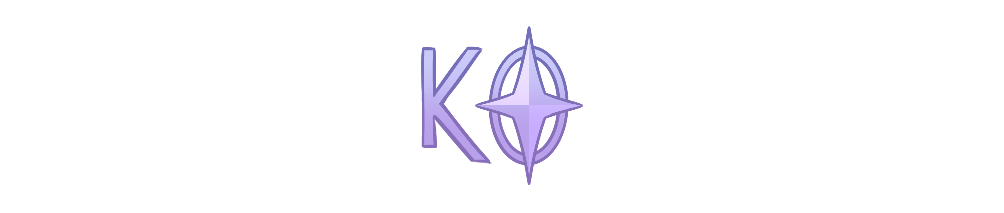
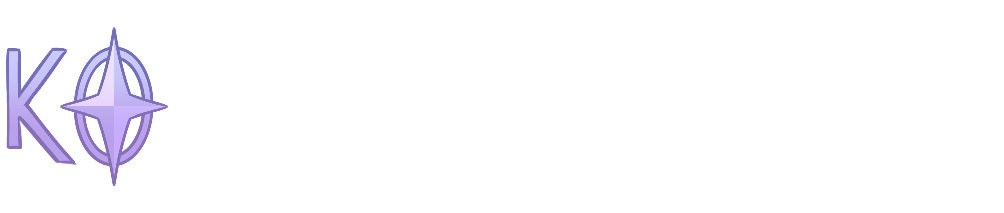
what changed

Changed region(s): [[0.4014, 0.1408, 0.5867, 0.8451], [0.0, 0.1408, 0.1853, 0.8732]]

diff --git a/style.css b/style.css
@@ -98,6 +98,13 @@ ul {
     font-size: 1.25rem;
 }
 
+/* Small KO logo used in header links */
+.site-logo {
+    width: 40px;
+    height: auto;
+    display: block;
+}
+
 .logo:hover {
     color: var(--color-accent);
 }
@@ -147,6 +154,13 @@ ul {
     text-transform: uppercase;
     letter-spacing: 0.1em;
     margin-bottom: 0.5rem;
+}
+
+/* Hero name image sizing (replaces text title) */
+.hero-name-image {
+    width: clamp(200px, 30vw, 420px);
+    height: auto;
+    margin-bottom: 1rem;
 }
 
 .hero-title {

diff --git a/about.html b/about.html
@@ -13,7 +13,7 @@
 <body>
     <header class="site-header">
         <nav class="main-nav" aria-label="Main navigation">
-            <a href="index.html" class="logo">Kiersten Ong</a>
+            <a href="index.html" class="logo"><img src="ImagesAndCV/KO.png" alt="KO logo" class="site-logo"></a>
             <ul class="nav-links">
                 <li><a href="about.html">About</a></li>
                 <li><a href="projects.html">Projects</a></li>

diff --git a/contact.html b/contact.html
@@ -13,7 +13,7 @@
 <body>
     <header class="site-header">
         <nav class="main-nav" aria-label="Main navigation">
-            <a href="index.html" class="logo">Kiersten Ong</a>
+            <a href="index.html" class="logo"><img src="ImagesAndCV/KO.png" alt="KO logo" class="site-logo"></a>
             <ul class="nav-links">
                 <li><a href="about.html">About</a></li>
                 <li><a href="projects.html">Projects</a></li>
